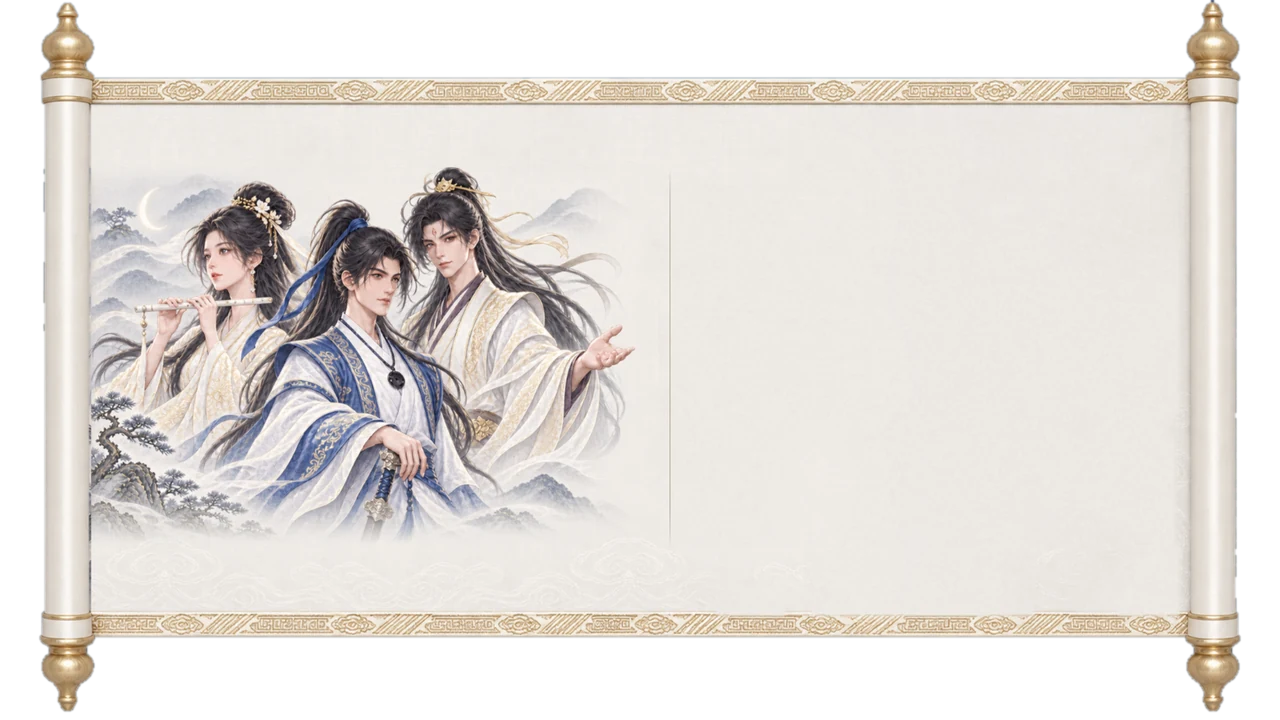
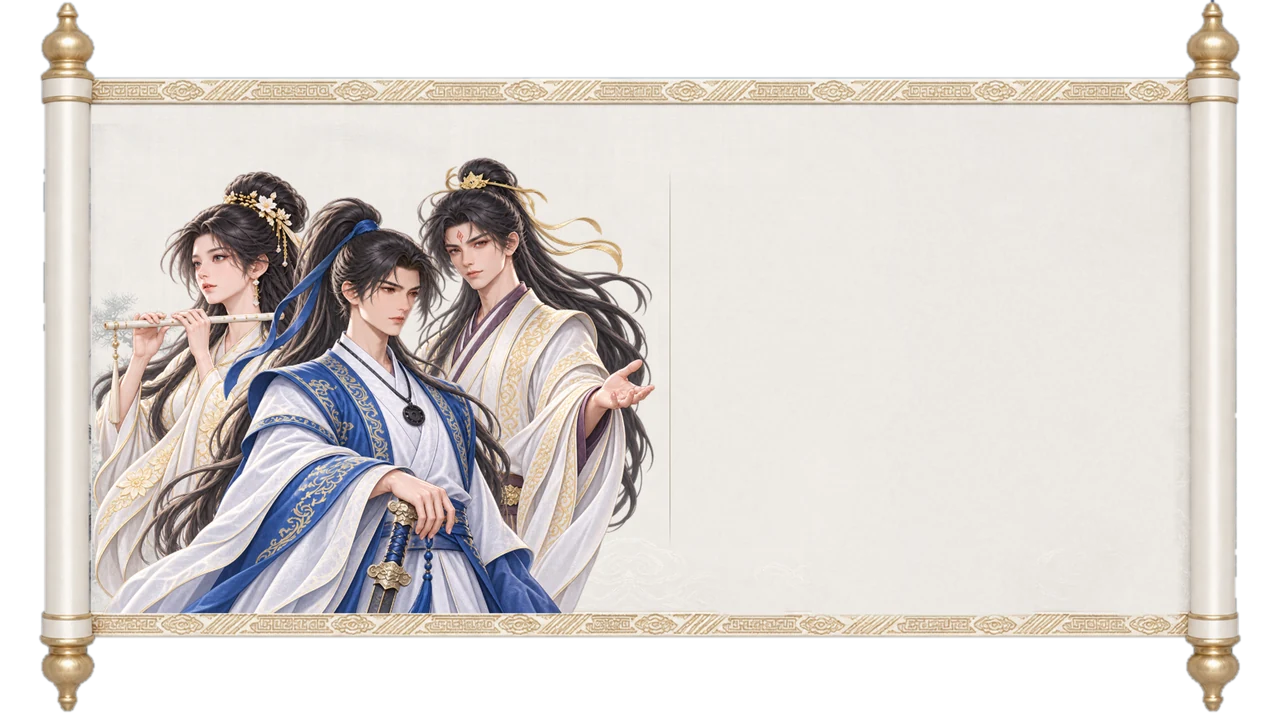
v505 战斗胜利群像换 Codex 清晰立绘版（金白），加叶孤星·神乐、叶孤星·洛尘两套，共 6 套阵容
Claude-Session: https://claude.ai/code/session_01MLmwgsq8MPeyfrTaz8BRE2

Changed region(s): [[0.0625, 0.2139, 0.5312, 0.8556]]

diff --git a/game/r164_victory.js b/game/r164_victory.js
@@ -4,7 +4,7 @@
 // 右半的标题、角色行、经验条、掉落格、灵石、确定按钮都由代码按效果图位置画。没载完时退回 R155 金色海棠框。
 (function () {
   if (typeof S === 'undefined' || typeof showPanel !== 'function') return;
-  const SETS = { '01': ['linxue', 'yunting'], '02': ['shenle', 'luochen'], '03': ['yunting'], '04': ['linxue'] };
+  const SETS = { '01': ['linxue', 'yunting'], '02': ['shenle', 'luochen'], '03': ['yunting'], '04': ['linxue'], '05': ['shenle'], '06': ['luochen'] };   // 作者 11-08：换 Codex 清晰立绘版（金白），加神乐、洛尘两套双人
   const IM = {}, PORT = {}; let ready = false;
   const img = src => new Promise((res, rej) => { const im = new Image(); im.onload = () => res(im); im.onerror = rej; im.src = src; });
   const load = () => Promise.all([

diff --git a/tools/qa/r164_scroll_build.py b/tools/qa/r164_scroll_build.py
@@ -1,6 +1,6 @@
 import cv2, numpy as np, glob, sys
 from PIL import Image
-SRC='/mnt/user-data/uploads/孤星问道/Codex交付/R164_战斗胜利结算框选型/卷中群像/金白版/'
+SRC='/mnt/user-data/uploads/孤星问道/Codex交付/R164_战斗胜利结算框选型/卷中群像/清晰立绘版/金白版/'
 def proc(n, out):
     im=np.array(Image.open(glob.glob(SRC+n+'_*.png')[0]).convert('RGB'))
     H,W=im.shape[:2]
